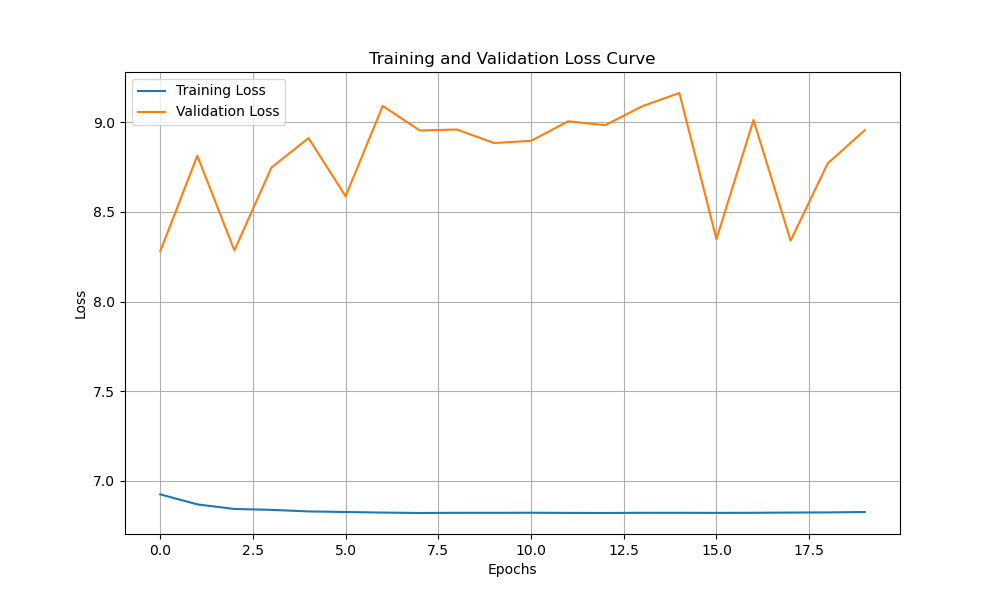
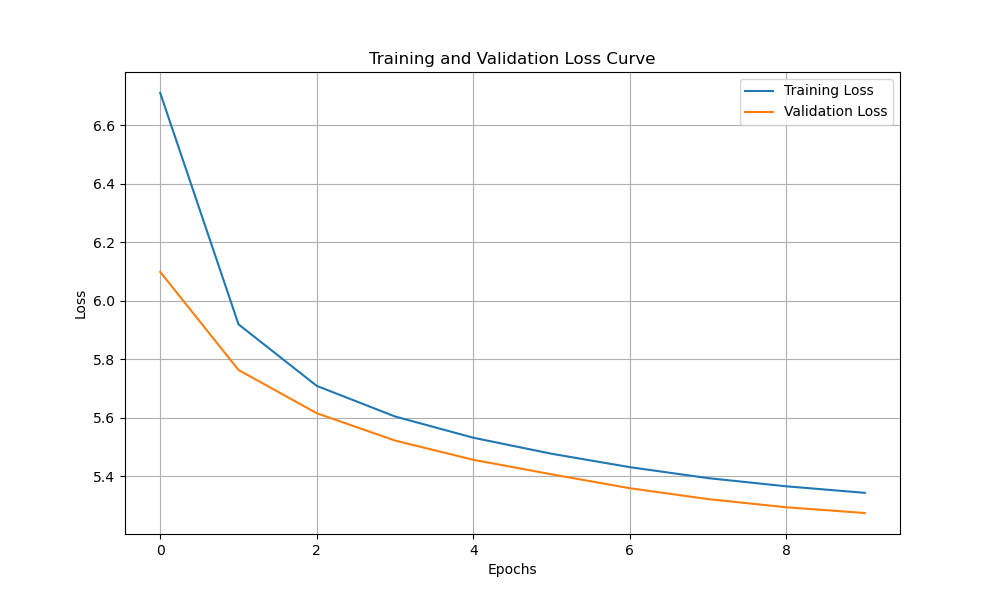
update ablation result

diff --git a/train.py b/train.py
@@ -115,6 +115,7 @@ def train():
     # 准备检查点目录
     checkpoint_dir = cfg.training.checkpoint_dir
     os.makedirs(checkpoint_dir, exist_ok=True)
+    #best_model_path = os.path.join(checkpoint_dir, f"best_model_{cfg.data.lang_src}_to_{cfg.data.lang_tgt}_{cfg.training.epoches}_without_encoder.pth")
     best_model_path = os.path.join(checkpoint_dir, f"best_model_{cfg.data.lang_src}_to_{cfg.data.lang_tgt}_{cfg.training.epoches}.pth")
     # 开始训练循环
     print("开始训练...")
@@ -152,6 +153,7 @@ def train():
             print(f"新最佳模型已保存到 {best_model_path}")
     # 绘制并保存损失曲线
     figure_path = os.path.join(cfg.training.results_dir, f"loss_curve_{cfg.data.lang_src}_to_{cfg.data.lang_tgt:}.png")
+    #figure_path = os.path.join(cfg.training.results_dir, f"loss_curve_{cfg.data.lang_src}_to_{cfg.data.lang_tgt:}_without_encoder.png")
     draw_loss_curve(train_loss_list, val_loss_list, figure_path)
     print("训练完成...")
     print(f"最佳验证损失: {best_val_loss:.4f}")

diff --git a/src/transformer/models/transformer.py b/src/transformer/models/transformer.py
@@ -81,7 +81,7 @@ class Transformer(nn.Module):
 
         # 编码器前向传播
         encoder_output = self.encoder(src_emb, src_mask)
-
+        #encoder_output = src_emb # 去掉编码器
         # 解码器向前传播
         decoder_output = self.decoder(tgt_emb, encoder_output, dec_self_mask, enc_dec_mask)
 

diff --git a/README.md b/README.md
@@ -45,3 +45,7 @@
     ```bash
     ./scripts/run.sh
     ```  
+
+### 复现要求
+   - **GPU：** A4000
+   - **随机数种子：** 42
